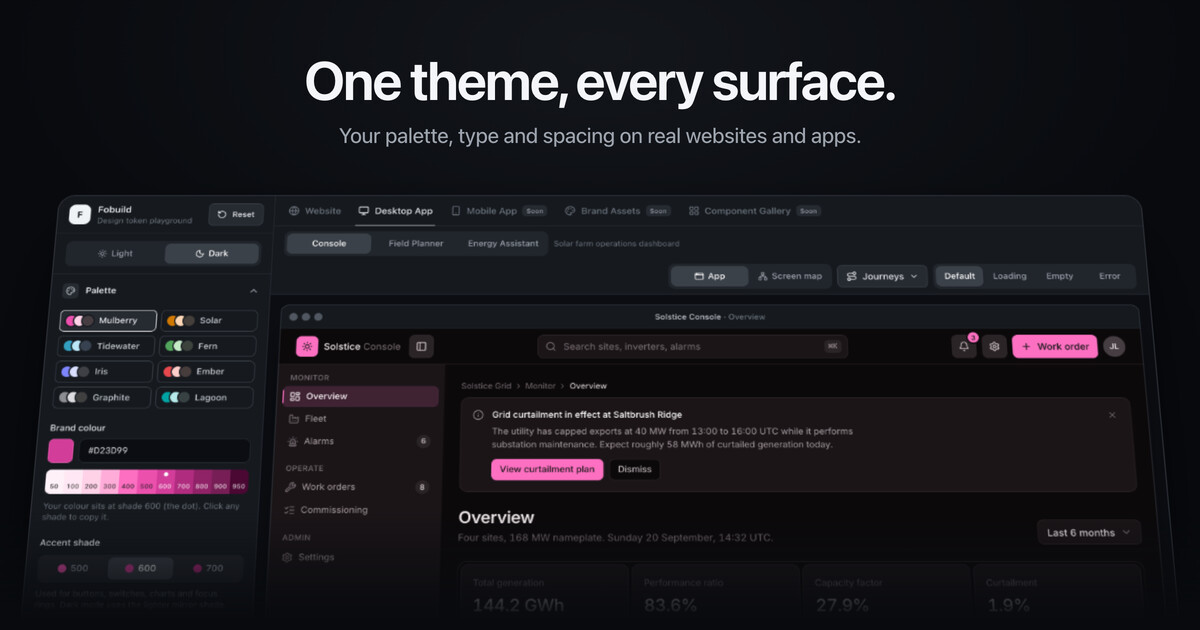
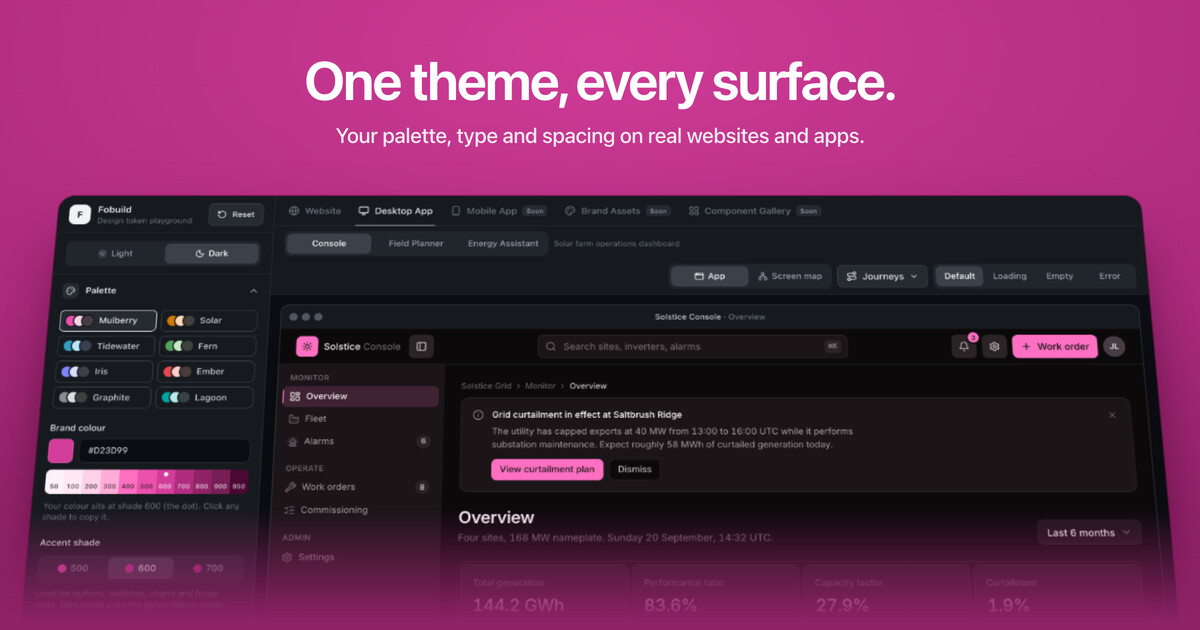
Make the link preview Mulberry pink

diff --git a/404.html b/404.html
@@ -6,7 +6,7 @@
     <meta name="viewport" content="width=device-width, initial-scale=1.0" />
     <title>Fobuild</title>
     <meta name="description" content="One theme, every surface. Try your palette, type and spacing on real websites and apps, live." />
-    <meta name="theme-color" content="#0f1115" />
+    <meta name="theme-color" content="#b02c7f" />
     <link rel="canonical" href="https://fobuild.app/" />
 
     <meta property="og:type" content="website" />

diff --git a/index.html b/index.html
@@ -6,7 +6,7 @@
     <meta name="viewport" content="width=device-width, initial-scale=1.0" />
     <title>Fobuild</title>
     <meta name="description" content="One theme, every surface. Try your palette, type and spacing on real websites and apps, live." />
-    <meta name="theme-color" content="#0f1115" />
+    <meta name="theme-color" content="#b02c7f" />
     <link rel="canonical" href="https://fobuild.app/" />
 
     <meta property="og:type" content="website" />
